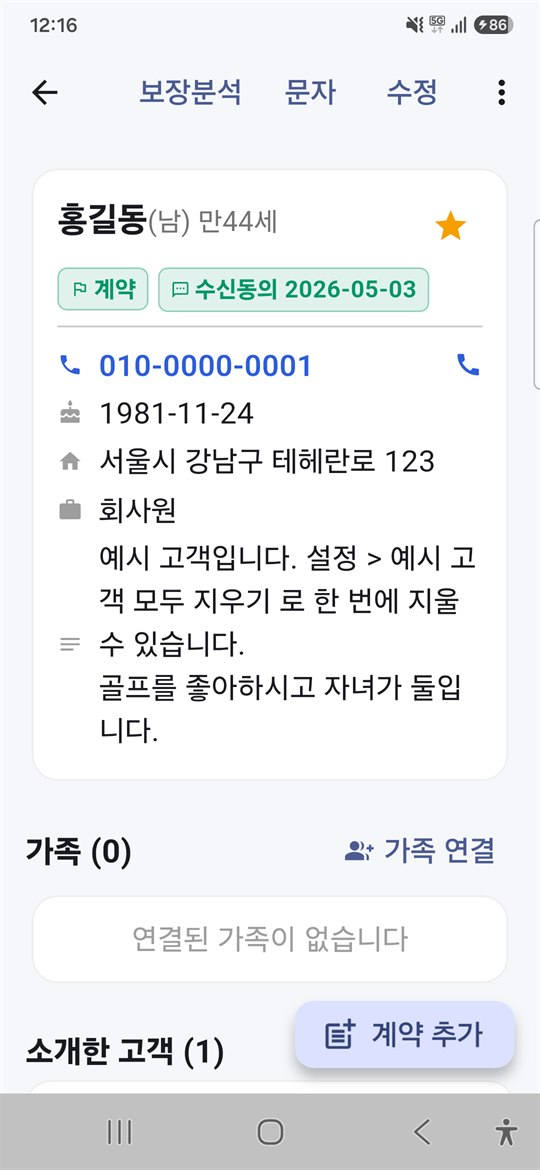
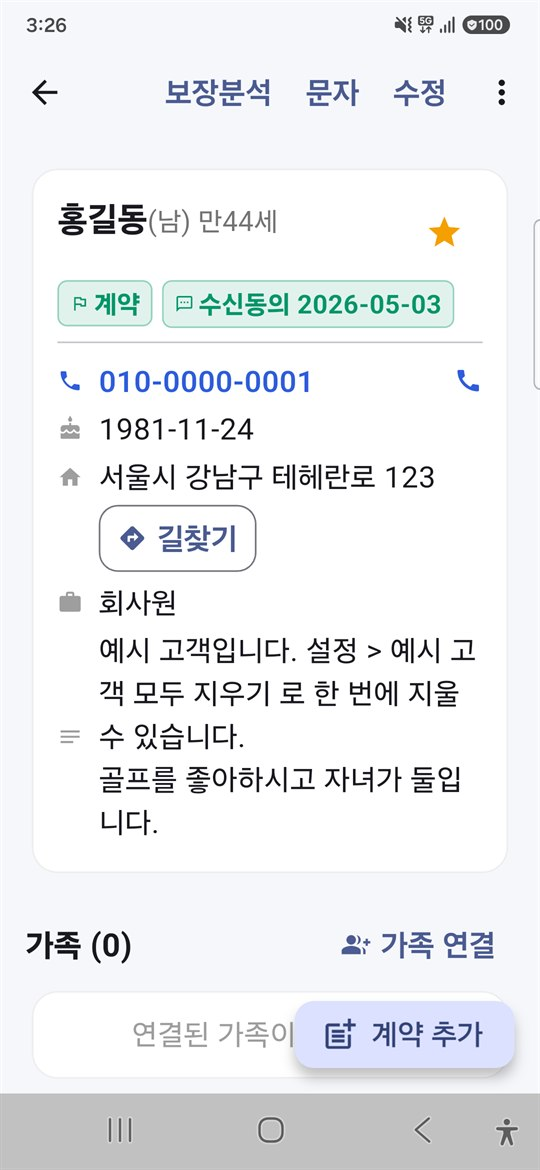
사용설명서를 1.1.20 화면에 맞춘다 (1.1.20 게시 뒤 push)

diff --git a/manual/index.html b/manual/index.html
@@ -256,9 +256,70 @@ body { max-width: none; margin: 0; padding: 14px 14px 56px; }
 th, .chip { font-size: 10pt; }
 td.k { white-space: normal; }   /* 안 접히면 표가 옆으로 넘친다 */
 
-/* 목차 → 각 장으로 바로 이동 */
-.toc ol a { color: inherit; text-decoration: none; display: block; }
+/* ───────── 목차: 눌러서 바로 가는 카드 ─────────
+   인쇄본의 줄 목록을 화면에서는 카드로 바꾼다. 번호 동그라미 · 제목 · 설명 ·
+   오른쪽 화살표. 카드 전체가 눌린다(a::after 로 카드를 덮는다). */
+.toc { padding-bottom: 6px; }
+.toc h2 {
+  display: flex; align-items: baseline; gap: 8px;
+  margin: 0 0 4px; font-size: 19px;
+}
+.toc h2::after {
+  content: '누르면 그 장으로 바로 갑니다';
+  font-size: 12.5px; font-weight: 500; color: var(--sub);
+}
+.toc ol { display: grid; gap: 8px; margin: 12px 0 0; padding: 0; }
+.toc > ol > li {
+  position: relative;
+  grid-template-columns: 34px 1fr 14px; align-items: center; column-gap: 12px;
+  padding: 11px 14px 11px 12px;
+  border: 1px solid var(--line); border-bottom: 1px solid var(--line);
+  border-radius: 14px;
+  background: #fff;
+  box-shadow: 0 1px 2px rgba(30, 36, 48, .05);
+  transition: background .15s, border-color .15s;
+}
+.toc > ol > li::before {
+  width: 34px; height: 34px; border-radius: 50%;
+  display: flex; align-items: center; justify-content: center;
+  background: #EEF3FF; color: var(--brand);
+  font-size: 13px; font-weight: 800; letter-spacing: -.2px;
+}
+.toc > ol > li::after {
+  content: ''; width: 8px; height: 8px;
+  border-top: 2px solid #A9B4C8; border-right: 2px solid #A9B4C8;
+  transform: rotate(45deg); justify-self: end;
+}
+.toc > ol > li:active { background: var(--soft); border-color: #C9D6F5; }
+.toc ol a { color: inherit; text-decoration: none; display: block; min-width: 0; }
+.toc ol a::after { content: ''; position: absolute; inset: 0; border-radius: 14px; }
+.toc b { display: block; font-size: 15.5px; font-weight: 700; color: var(--ink); line-height: 1.3; }
+.toc span { font-size: 12.5px; margin-top: 2px; line-height: 1.4; }
+/* 마지막 '자주 묻는 질문'은 막힐 때 가는 곳이라 색을 달리해 눈에 띄게 */
+.toc > ol > li:last-child { background: #FFF8F1; border-color: #F6D9BF; }
+.toc > ol > li:last-child::before { background: #FFE8D4; color: var(--orange); }
 </style>
+<script>
+/* 앱 안 웹뷰(에셋 파일)에서는 '#sec3' 같은 쪽 안 링크를 눌러도 움직이지
+   않았다. 목차 카드를 누르면 직접 그 장으로 스크롤한다. 오래된 웹뷰에서도
+   돌게 옛 문법만 쓴다. 기록(history)에도 남겨 뒤로가기로 목차에 돌아온다. */
+document.addEventListener('click', function (ev) {
+  var a = ev.target;
+  while (a && a.tagName !== 'A') a = a.parentNode;
+  if (!a || !a.getAttribute) return;
+  var href = a.getAttribute('href');
+  if (!href || href.charAt(0) !== '#') return;
+  var el = document.querySelector(href);
+  if (!el) return;
+  ev.preventDefault();
+  try { history.pushState(null, '', href); } catch (e) {}
+  el.scrollIntoView();
+}, true);
+window.addEventListener('popstate', function () {
+  var el = location.hash ? document.querySelector(location.hash) : document.querySelector('.toc');
+  if (el) el.scrollIntoView();
+});
+</script>
 </head>
 <body>
 
@@ -269,9 +330,9 @@ td.k { white-space: normal; }   /* 안 접히면 표가 옆으로 넘친다 */
   <div class="rule"></div>
   <dl>
     <dt>앱 이름</dt><dd>보험노트 (InsuMate)</dd>
-    <dt>버전</dt><dd>1.1.18 (26)</dd>
+    <dt>버전</dt><dd>1.1.20 (28)</dd>
     <dt>지원 기기</dt><dd>Android 7.0 이상</dd>
-    <dt>작성일</dt><dd>2026년 11월 18일</dd>
+    <dt>작성일</dt><dd>2026년 11월 19일</dd>
   </dl>
   <div class="note">
     <b>꼭 기억하세요</b> — 고객 자료는 <b>이 휴대폰 안에만</b> 저장됩니다.
@@ -347,7 +408,7 @@ td.k { white-space: normal; }   /* 안 접히면 표가 옆으로 넘친다 */
         직접 넣은 고객은 지워지지 않습니다.</p>
 
       <h3>이 설명서 다시 열기</h3>
-      <p><b>설정 맨 위 사용법</b>, 또는 홈 &lsquo;시작하기&rsquo; 맨 아래
+      <p><b>설정 &gt; 처음 할 것 &gt; 사용법</b>, 또는 홈 &lsquo;시작하기&rsquo; 맨 아래
         <span class="chip">사용법 자세히 보기</span>를 누르세요.
         인터넷이 없어도 열립니다.</p>
       <p>설명서 오른쪽 위 <span class="chip">보내기</span>를 누르면
@@ -398,7 +459,6 @@ td.k { white-space: normal; }   /* 안 접히면 표가 옆으로 넘친다 */
         <li>부족한 보장 — 권유할 거리</li>
       </ul>
       <div class="tip">전화 돌리기 전에 펼쳐 훑으면 무슨 말을 할지 정리됩니다.</div>
-      <p>계약이 있으면 홈 아래쪽에 <span class="chip">보험사별 장부</span> 입구가 생깁니다(9장).</p>
     </div>
   </div>
 </section>
@@ -476,15 +536,18 @@ td.k { white-space: normal; }   /* 안 접히면 표가 옆으로 넘친다 */
         <b>초성</b>도 됩니다 — <b>ㄱㄷㅇ</b>만 쳐도 강도윤이 나옵니다.</p>
 
       <h3>조건으로 거르기</h3>
-      <p>검색창 옆 <span class="chip">조건</span>을 누르면 이런 조건으로 거를 수 있습니다.</p>
+      <p>자주 쓰는 것은 목록 위 칩을 바로 누릅니다:
+        <b>이번 주</b> <span class="chip">생일</span>, <b>이번 달</b>
+        <span class="chip">생일</span> <span class="chip">상령일</span>
+        <span class="chip">만기</span> <span class="chip">납입</span>.</p>
+      <p>그 밖의 조건은 검색창 옆 <span class="chip">조건</span>을 누릅니다.</p>
       <ul class="dot">
-        <li>중요고객(별표) · 이번 달 생일 · 만기(이번 달~1년 이내)</li>
-        <li>성별 · 연령대 · 상품 유형 · 보험사</li>
-        <li>영업 단계 · 문자 수신동의</li>
+        <li>먼저 보이는 것 — 생일 · 만기(이번 달~1년 이내) · 납입 · 중요고객(별표)</li>
+        <li><b>조건 더 보기</b>를 누르면 — 영업 단계 · 문자 수신동의 · 성별 · 연령대 · 상품 유형 · 보험사</li>
       </ul>
       <p>거른 뒤 목록 위 <b>이 N명에게 문자</b>로 그 사람들에게 문자를 보낼 수 있습니다.</p>
-      <div class="tip">맨 위 <span class="chip">가족 묶기</span>는 목록을 가족끼리 모아 보여 주는
-        보기 버튼입니다. 가족을 연결하는 곳은 고객 화면입니다.</div>
+      <div class="tip">오른쪽 위 <b>⋮</b>를 누르면 <b>가족 묶기</b>(목록을 가족끼리 모아 보기)와
+        <b>소개 관계</b>가 있습니다. 가족을 연결하는 곳은 고객 화면입니다.</div>
     </div>
   </div>
 
@@ -499,10 +562,14 @@ td.k { white-space: normal; }   /* 안 접히면 표가 옆으로 넘친다 */
         <li><b>문자</b> — 이 고객에게 문자를 보냅니다(7장)</li>
         <li><b>수정</b> — 고객 정보를 고칩니다</li>
         <li><b>전화번호</b> — 누르면 바로 전화가 걸립니다</li>
+        <li><b>길찾기</b> — 주소 밑 버튼. 카카오맵·네이버지도·T맵으로 바로 길을 찾습니다</li>
         <li><b>별</b> — 누르면 중요고객이 됩니다</li>
       </ul>
       <p>아래로 내리면 <b>가족 · 계약 · 상담 · 서류</b>가 차례로 나옵니다.
         오른쪽 아래 <span class="chip">계약 추가</span>로 계약을 넣습니다.</p>
+      <div class="tip">유지 중인 계약마다 <span class="chip">고객센터</span>와
+        <span class="chip">청구 서류</span> 버튼이 있습니다. 고객이 보험금 청구를 물어 오면
+        그 자리에서 보험사에 전화하거나, 필요한 서류 목록을 그 고객에게 바로 문자로 보냅니다.</div>
 
       <h3>영업 단계 · 문자 수신동의</h3>
       <p>이름 아래 작은 표시를 누르면 바로 바꿀 수 있습니다.</p>
@@ -612,7 +679,7 @@ td.k { white-space: normal; }   /* 안 접히면 표가 옆으로 넘친다 */
         카톡·문자로 보낼 수 있는 한 장짜리 그림이 만들어집니다.</p>
 
       <h3>소개 관계</h3>
-      <p>고객 탭 맨 위 <span class="chip">소개 관계</span>를 누르면 누가 누구를 소개했는지 나옵니다.
+      <p>고객 탭 오른쪽 위 <b>⋮ &gt; 소개 관계</b>를 누르면 누가 누구를 소개했는지 나옵니다.
         고객을 등록할 때 <b>소개자</b>를 적어 두어야 보입니다.</p>
     </div>
   </div>
@@ -634,10 +701,11 @@ td.k { white-space: normal; }   /* 안 접히면 표가 옆으로 넘친다 */
         <li><b>문자 앱으로 보내기</b>를 누르면 휴대폰 문자 앱이 열립니다. 거기서 <b>전송</b>을 누르세요.</li>
       </ol>
       <div class="warn">앱이 직접 보내지 않습니다. <b>문자 앱에서 전송</b>을 눌러야 나갑니다.</div>
-      <p>문자 화면 아래 <b>카톡으로 보내기</b>를 누르면 같은 내용을 카카오톡으로 보낼 수 있습니다.</p>
+      <p>한 분께 보낼 때는 문자 화면 아래 <b>카톡으로 보내기</b>로 같은 내용을 카카오톡으로도 보낼 수 있습니다.</p>
       <p>문자·카톡을 보내고 돌아오면 <b>&lsquo;기록을 남길까요?&rsquo;</b>를 묻습니다.
         전화를 끊고 돌아오면 <b>&lsquo;통화하셨나요?&rsquo;</b> 창이 떠서 통화 메모와
-        다음 연락 날짜를 바로 적을 수 있습니다. 남기면 상담 기록에 들어갑니다.</p>
+        다음 연락 날짜를 바로 적을 수 있습니다. 남기면 상담 기록에 들어갑니다.
+        이 창이 필요 없으면 <b>설정 &gt; 더 편하게 &gt; 통화 후 메모 창 띄우기</b>를 끄세요.</p>
     </div>
   </div>
 
@@ -647,9 +715,10 @@ td.k { white-space: normal; }   /* 안 접히면 표가 옆으로 넘친다 */
     <div>
       <h3>여러 명에게</h3>
       <ol class="steps">
-        <li>고객 탭 위의 <span class="chip">이번 주 생일</span> <span class="chip">이번 달 생일</span>
-          <span class="chip">이번 달 만기</span> <span class="chip">이번 달 납입</span> 중 하나를 누릅니다.</li>
-        <li>명단이 걸러지면 <b>이 N명에게 문자</b>를 누릅니다. 맞는 문구(생일 축하·만기 안내·납입 안내)가 채워져 열립니다.</li>
+        <li>고객 탭 위 <b>이번 주</b> <span class="chip">생일</span>, 또는 <b>이번 달</b>
+          <span class="chip">생일</span> <span class="chip">상령일</span> <span class="chip">만기</span>
+          <span class="chip">납입</span> 중 하나를 누릅니다.</li>
+        <li>명단이 걸러지면 <b>이 N명에게 문자</b>를 누릅니다. 맞는 문구(생일 축하·상령일 안내·만기 안내·납입 안내)가 채워져 열립니다. 상령일은 오늘부터 이달 말까지 남은 분만 나옵니다.</li>
         <li><b>문자 앱으로 보내기</b>를 누르고 문자 앱에서 <b>전송</b>을 누르세요.</li>
       </ol>
       <p>다른 조건(영업 단계·보험사·연령대 등)은 <span class="chip">조건</span> &gt; <b>조건 더 보기</b>에서 고릅니다.</p>
@@ -719,13 +788,15 @@ td.k { white-space: normal; }   /* 안 접히면 표가 옆으로 넘친다 */
       <figcaption>보험사별 장부</figcaption></figure>
     <div>
       <h3>보험사별 장부</h3>
-      <p>여러 보험사 계약을 함께 다룰 때 쓰세요. <b>홈 아래쪽</b> 또는
+      <p>여러 보험사 계약을 함께 다룰 때 쓰세요. <b>통계 탭 맨 위</b> 또는
         <b>설정 &gt; 보험사별 장부</b>에서 엽니다.</p>
       <ul class="dot">
-        <li>보험사마다 <b>계약 수 · 고객 수 · 월 보험료 · 이달 만기</b>가 나옵니다</li>
+        <li>보험사마다 <b>월 보험료 · 계약 수 · 고객 수</b>가 나옵니다(예: 월 300,000원 · 1건 · 1명)</li>
         <li>초록색 <b>상담원 아이콘</b>을 누르면 그 보험사 고객센터로 바로 전화합니다</li>
         <li>보험사를 누르면 그 회사 계약만 모아 봅니다</li>
       </ul>
+      <div class="tip">고객이 청구 문의를 하면 <b>고객 화면의 계약 카드</b>에서 바로
+        <b>고객센터 전화</b>와 <b>보험금 청구 서류 안내</b>를 쓸 수 있습니다.</div>
 
       <h3>통계</h3>
       <p><b>통계</b> 탭에서 고객 수 · 유지 계약 · 월 보험료 합계 · 이번 달 신규 계약,
@@ -848,7 +919,7 @@ td.k { white-space: normal; }   /* 안 접히면 표가 옆으로 넘친다 */
     </div>
   </div>
 
-  <p class="end">보험노트 v1.1.18 (26) 사용설명서 · 2026년 11월 18일 · 모든 데이터는 사용자의 기기에만 저장됩니다</p>
+  <p class="end">보험노트 v1.1.20 (28) 사용설명서 · 2026년 11월 19일 · 모든 데이터는 사용자의 기기에만 저장됩니다</p>
 
   <div class="legal">
     <p><b>&copy; 2026 디벨로직(Develogic). All rights reserved.</b></p>
